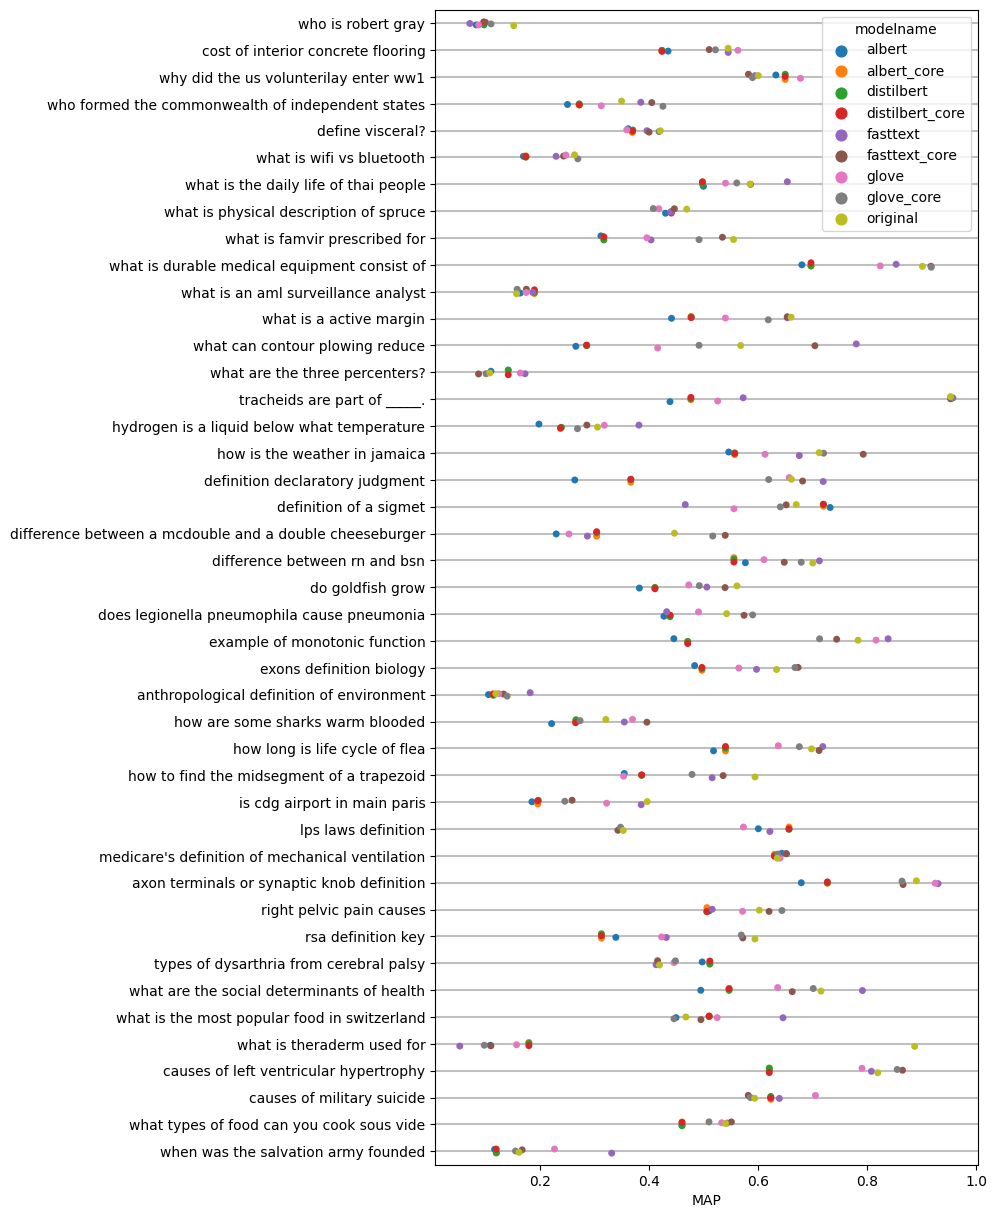
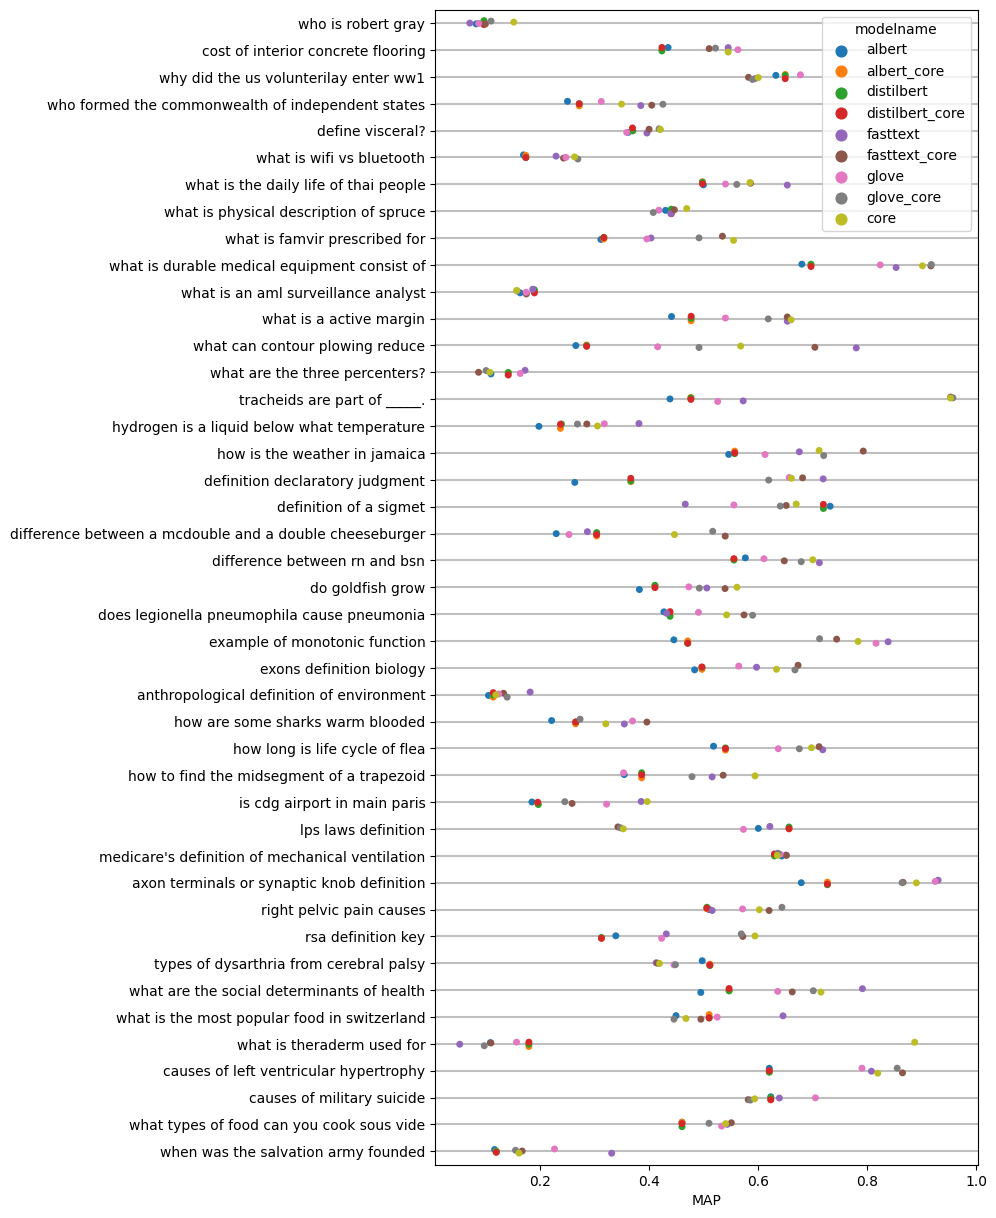
Some renaming

diff --git a/error_analysis.py b/error_analysis.py
@@ -22,7 +22,7 @@ def process(modelname):
     return map
 
 # Saving model names
-modelnames = ['albert', 'albert_core', 'distilbert', 'distilbert_core', 'fasttext', 'fasttext_core', 'glove', 'glove_core', 'original']
+modelnames = ['albert', 'albert_core', 'distilbert', 'distilbert_core', 'fasttext', 'fasttext_core', 'glove', 'glove_core', 'core']
 
 # Combining data
 combined = pd.DataFrame([], columns=['metric', 'qid', 'value', 'modelname'])
